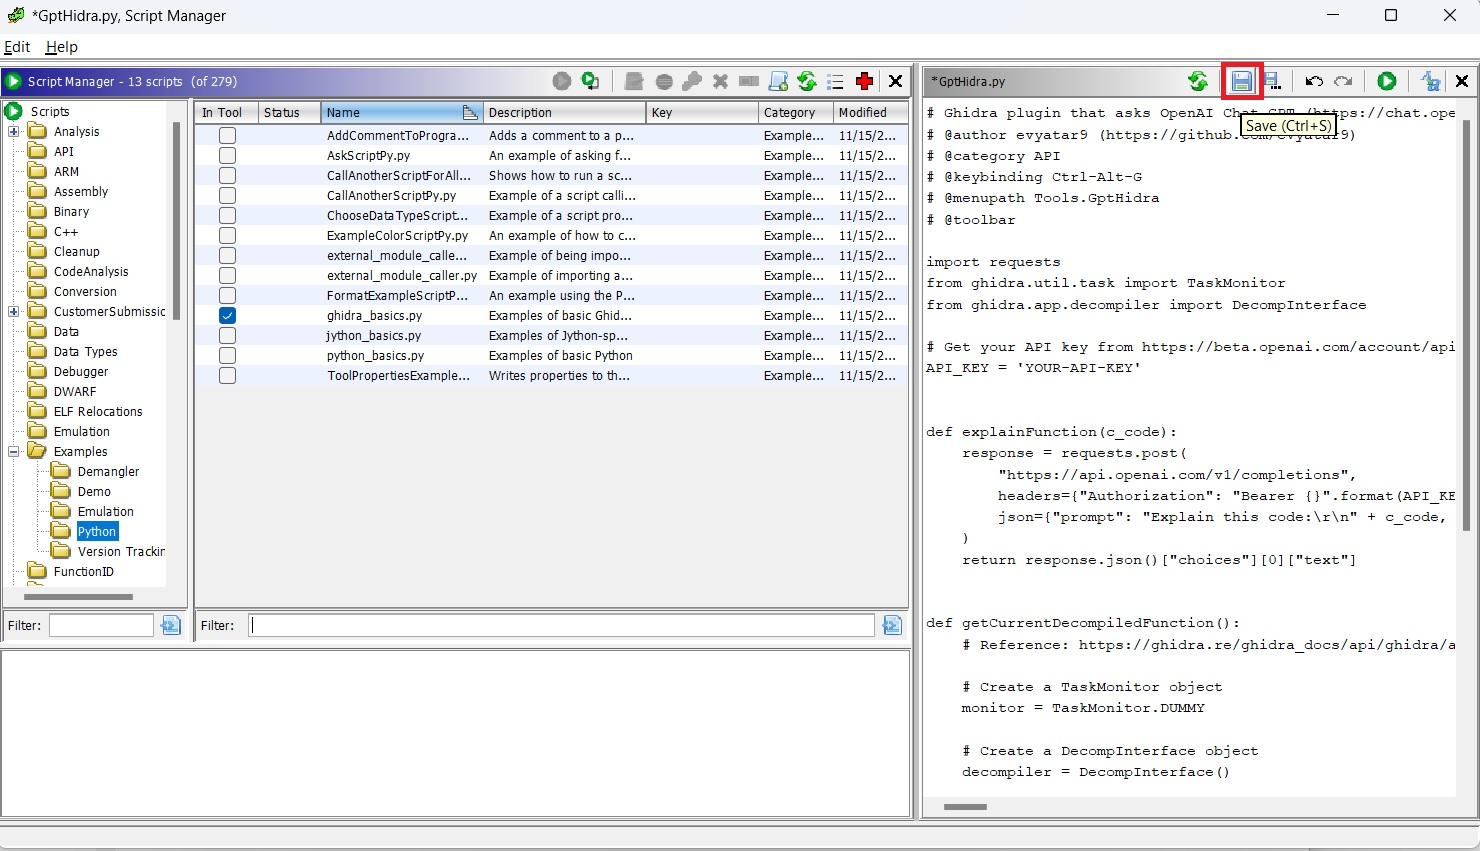
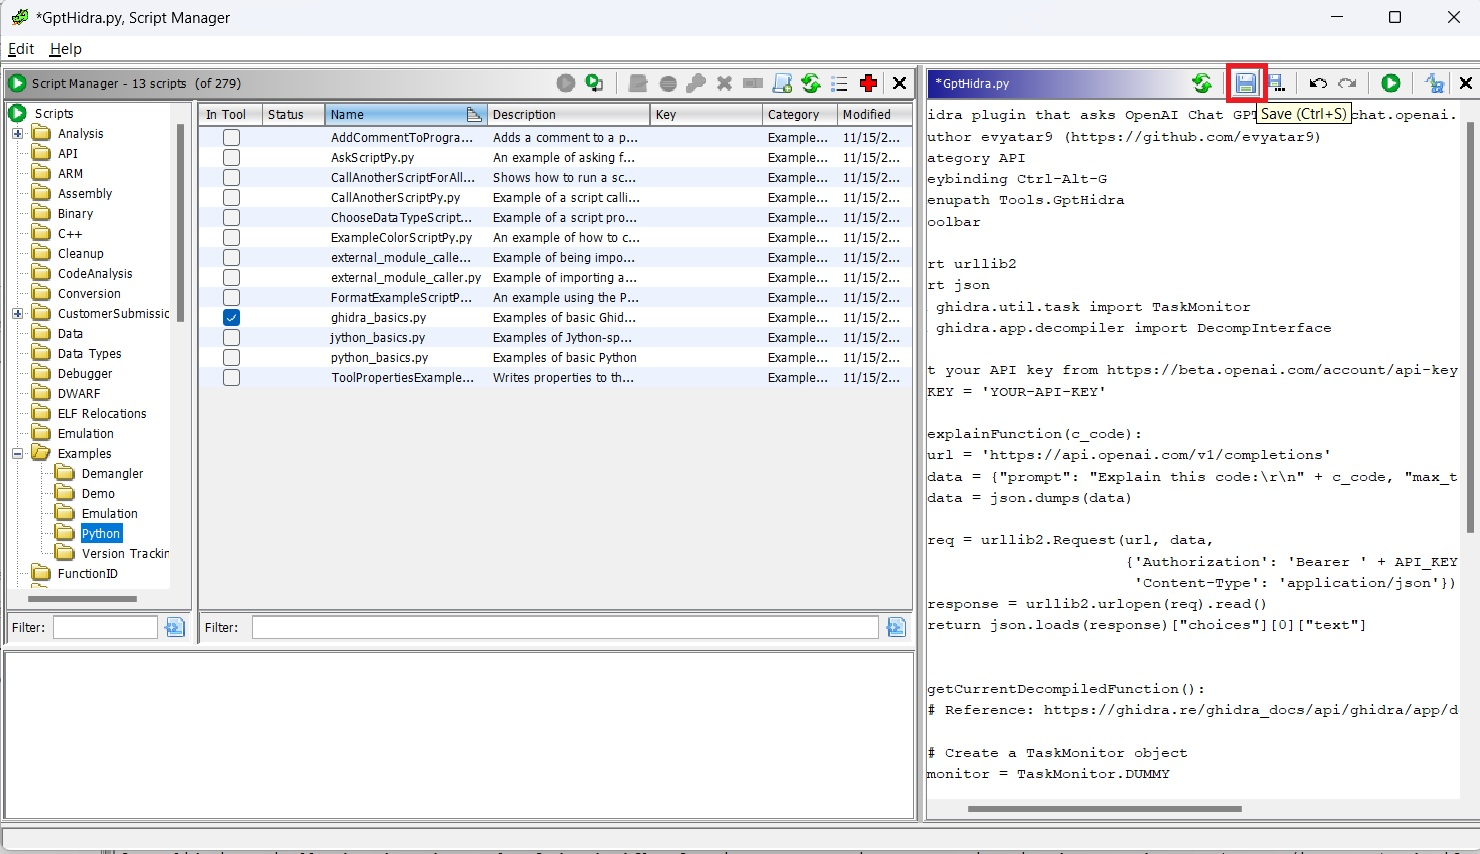
GptHidra

Changed region(s): [[0.0, 0.0, 1.0, 1.0], [0.9324, 0.0, 0.9635, 0.0306]]

diff --git a/README.md b/README.md
@@ -13,9 +13,6 @@ Ghidra plugin that asks [OpenAI Chat GPT](https://chat.openai.com/chat) to expla
 Tool | Version |Source |
 |---|---|---|
 | Ghidra | `>= 10.2` | https://ghidra-sre.org |
-| Ghidrathon | `2.0.0` | https://github.com/mandiant/Ghidrathon |
-| Python | `>= 3.7` | https://www.python.org/downloads |
-| requests |  | https://pypi.org/project/requests/ |
 
 Note: ```Ghidra >= 10.2``` requires [JDK 17 64-bit](https://adoptium.net/temurin/releases/).
 
@@ -34,21 +31,24 @@ Choose ```python```, Set the name ```GptHidra.py``` , Paste the content of [GptH
 # @menupath Tools.GptHidra
 # @toolbar
 
-import requests
+import urllib2
+import json
 from ghidra.util.task import TaskMonitor
 from ghidra.app.decompiler import DecompInterface
 
 # Get your API key from https://beta.openai.com/account/api-keys
 API_KEY = ''
 
-
 def explainFunction(c_code):
-    response = requests.post(
-        "https://api.openai.com/v1/completions",
-        headers={"Authorization": "Bearer {}".format(API_KEY)},
-        json={"prompt": "Explain this code:\r\n" + c_code, "max_tokens": 2048, "model": "text-davinci-003"},
-    )
-    return response.json()["choices"][0]["text"]
+    url = 'https://api.openai.com/v1/completions'
+    data = {"prompt": "Explain this code:\r\n" + c_code, "max_tokens": 2048, "model": "text-davinci-003"}
+    data = json.dumps(data)
+
+    req = urllib2.Request(url, data,
+                          {'Authorization': 'Bearer ' + API_KEY,
+                           'Content-Type': 'application/json'})
+    response = urllib2.urlopen(req).read()
+    return json.loads(response)["choices"][0]["text"]
 
 
 def getCurrentDecompiledFunction():
